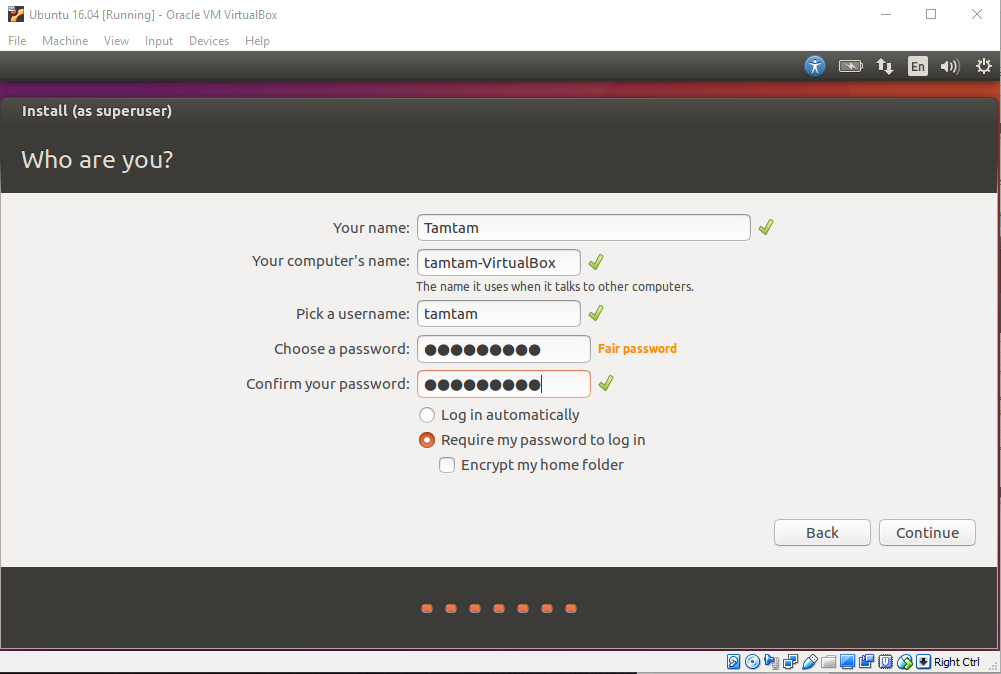
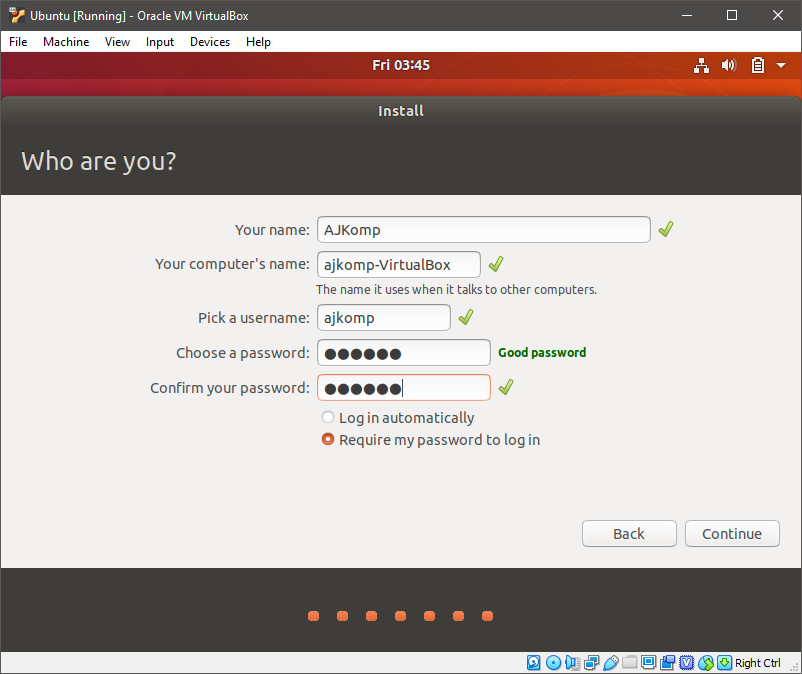
Update images

diff --git a/Instalasi/README.md b/Instalasi/README.md
@@ -8,13 +8,12 @@ Sub-materi
         - [Referensi](#referensi)
 
 ### 1. Persiapan
-- File ISO Ubuntu 18.04 LTS ([Download](http://releases.ubuntu.com/18.04/ubuntu-18.04.5-desktop-amd64.iso))
-- - Installer VirtualBox ([Download](https://download.virtualbox.org/virtualbox/5.2.22/VirtualBox-5.2.22-126460-Win.exe))
+- File ISO Ubuntu 18.04 LTS ([Download](http://releases.ubuntu.com/18.04.3/ubuntu-18.04.3-desktop-amd64.iso))
+- Installer VirtualBox ([Download](https://download.virtualbox.org/virtualbox/6.0.16/VirtualBox-6.0.16-135674-Win.exe))
 
 ### 2. Teknik Instalasi
 Jika hendak menggunakan lebih dari satu sistem operasi atau sering disebut OS(operating system) pada suatu komputer biasanya ada dua pilihan teknik instalasi, yaitu **dual-boot** atau **virtualisasi**.
-**Dual-boot** adalah teknik menginstall dua atau lebih OS pada satu komputer, dimana masing-masing OS berjalan secara mandiri. Pengguna hanya dapat menggunakan salah satu OS dalam satu watu, dengan cara memilih OS yang akan dipakai ketika menyalakan komputer.
-
+**Dual-boot** adalah teknik menginstall dua atau lebih OS pada satu komputer, dimana masing-masing OS berjalan secara mandiri. Pengguna hanya dapat menggunakan salah satu OS dalam satu watu, dengan cara memilih OS yang akan dipakai ketika menyalakan komputer.<br/>
 ![Tampilan GRUB Dual Boot Linux(Ubuntu) dan Windows](img/tampilan_grub_dual_boot.png "Tampilan GRUB Dual Boot Linux(Ubuntu) dan Windows")
 
 Sedangkan **Virtualisasi** adalah teknik menginstal dan menjalankan suatu OS di atas OS lain sebagai host, yaitu dengan menggunakan program berjenis mesin virtual (virtual machine), salah satu contohnya adalah VirtualBox. Dengan mesin virtual ini, pengguna dapat menjalankan suatu OS, sebagai contoh Linux, pada saat OS lain berjalan, sebagai contoh Windows, sehingga pengguna dapat menjalankan beberapa OS sekaligus dalam satu waktu.
@@ -31,61 +30,64 @@ Berikut ini perbandingan termasuk kelebihan dan kekurangan dari kedua teknik ins
 |Jika terjadi kerusakan pada salah satu OS, ada kemungkinan berpengaruh dengan OS satunya|Kerusakan pada OS yang di virtualisasikan tidak akan berpengaruh pada OS host|
 
 ### 3. Membuat Virtual Machine
-1. Install Oracle VM VirtualBox. Jika sudah ada, lanjut ke langkah 2.
-2. Buka aplikasi Oracle VM VirtualBox di Windows kamu.  
-![Tampilan awal Oracle VM VirtualBox](img/vb_home2.png "Tampilan awal Oracle VM VirtualBox")
 
-3. Klik **New** untuk membuat Virtual Machine baru. Isi **name** dengan nama 'Ubuntu 18.04', **type** pilih Linux, dan pilih **version** sesuai sepesifikasi PC atau Laptop kamu. Kemudian klik **Next** untuk proses selanjutnya.  
-![Membuat Virtual Machine baru Oracle VM VirtualBox](img/vb_buat_vm_baru2.png "Membuat Virtual Machine baru Oracle VM VirtualBox")
-
-4. Selanjutnya kamu disuruh untuk menentukan besaran memori, namun VirtualBox otomatis merekomendasikan besarnya memori. Jika sudah sesuai klik **Next**.  
-![Set memori VM baru Oracle VM VirtualBox](img/vb_set_memori2.png "Set memori VM baru Oracle VM VirtualBox")
-
-5. Selanjutnya kamu disuruh untuk menentukan ukuran harddisk, namun VirtualBox otomatis merekomendasikan ukuran harddisk. Jika sudah sesuai klik **Next**.  
+1. Install Oracle VM VirtualBox. Jika sudah ada, lanjut ke langkah 2. <br/>
+2. Buka aplikasi Oracle VM VirtualBox di Windows kamu.<br/>
+![Tampilan awal Oracle VM VirtualBox](img/vb_home.png "Tampilan awal Oracle VM VirtualBox")
+<br/>
+3. Klik **New** untuk membuat Virtual Machine baru. Isi **name** dengan nama 'Ubuntu 18.04', **type** pilih Linux, dan pilih **version** sesuai sepesifikasi PC atau Laptop kamu. Kemudian klik **Next** untuk proses selanjutnya.<br/>
+![Membuat Virtual Machine baru Oracle VM VirtualBox](img/vb_buat_vm_baru.png "Membuat Virtual Machine baru Oracle VM VirtualBox")
+<br/>
+4. Selanjutnya kamu disuruh untuk menentukan besaran memori, namun VirtualBox otomatis merekomendasikan besarnya memori. Jika sudah sesuai klik **Next**.<br/>
+![Set memori VM baru Oracle VM VirtualBox](img/vb_set_memori.png "Set memori VM baru Oracle VM VirtualBox")
+<br/>
+5. Selanjutnya kamu disuruh untuk menentukan ukuran harddisk, namun VirtualBox otomatis merekomendasikan ukuran harddisk. Jika sudah sesuai klik **Next**.<br/>
 ![Set ukuran harddisk VM baru Oracle VM VirtualBox](img/vb_set_disk_typee.png "Set ukuran harddisk VM baru Oracle VM VirtualBox")
-
-6. Klik **Next** saja pada proses ini untuk menuju proses selanjutnya.  
-![Set tipe harddisk VM baru Oracle VM VirtualBox](img/vb_set_disk_type22.png "Set tipe harddisk VM baru Oracle VM VirtualBox")
-
-7. Klik **Next** saja pada proses ini untuk menuju proses selanjutnya.  
+<br/>
+6. Klik **Next** saja pada proses ini untuk menuju proses selanjutnya.<br/>
+![Set tipe harddisk VM baru Oracle VM VirtualBox](img/vb_set_disk_type2.png "Set tipe harddisk VM baru Oracle VM VirtualBox")
+<br/>
+7. Klik **Next** saja pada proses ini untuk menuju proses selanjutnya.<br/>
 ![Set tipe harddisk VM baru Oracle VM VirtualBox(2)](img/vb_set_disk_type3.png "Set tipe harddisk VM baru Oracle VM VirtualBox(2)")
-
-8. Menentukan ukuran harddisk(direkomendasikan minimal 10GB). Klik **Create**.  
-![Set ukuran harddisk VM baru Oracle VM VirtualBox(3)](img/vb_set_disk_size2.png "Set ukuran harddisk VM baru Oracle VM VirtualBox(3)")
-
+<br/>
+8. Menentukan ukuran harddisk(direkomendasikan minimal 10GB). Klik **Create**.<br/>
+![Set ukuran harddisk VM baru Oracle VM VirtualBox(3)](img/vb_set_disk_size.png "Set ukuran harddisk VM baru Oracle VM VirtualBox(3)")
+<br/>
 9. Yee, virtual machine yang kamu buat sudah jadi! Namun, kamu masih harus menginstall Ubuntu 18.04 pada virtual machine yang telah kamu buat.
 
 ### 4. Instalasi Ubuntu 18.04
 Setelah berhasil membuat virtual machine, selanjutnya kita menginstall Ubuntu 18.04 pada virtual machine yang telah dibuat.
-1. Pilih virtual machine yang ingin di install, lalu klik **Setting** -> **Storage** -> **Controller: IDE** -> **Empty** -> **Choose Virtual Optical Disk File** untuk memilih file ISO Ubuntu yang akan di install. Kemudian klik **Start**(tanda panah hijau)  
-![Set file ISO Ubuntu VM baru Oracle VM VirtualBox](img/vb_set_iso2.png "Set file ISO Ubuntu VM baru Oracle VM VirtualBox")  
-![Set file ISO Ubuntu VM baru Oracle VM VirtualBox(2)](img/vb_get_iso_file2.png "Set file ISO Ubuntu VM baru Oracle VM VirtualBox(2)")  
-![Set file ISO Ubuntu VM baru Oracle VM VirtualBox(3)](img/vb_vm_jadi2.png "Set file ISO Ubuntu VM baru Oracle VM VirtualBox(3)")
 
-2. Yuhuu!! File ISO Ubuntu sudah berjalan. Selanjutnya tinggal ikuti langkah instalasinya. Klik **Install Ubuntu**.  
-![Instalasi Ubuntu(1)](img/vb_install_ubuntu12.png "Instalasi Ubuntu(1)")
+1. Pilih virtual machine yang ingin di install, lalu klik **Setting** -> **Storage** -> **Controller: IDE** -> **Empty** -> **Choose Virtual Optical Disk File** untuk memilih file ISO Ubuntu yang akan di install. Kemudian klik **Start**(tanda panah hijau)  <br/>
+![Set file ISO Ubuntu VM baru Oracle VM VirtualBox](img/vb_set_iso.png "Set file ISO Ubuntu VM baru Oracle VM VirtualBox")<br/>
+![Set file ISO Ubuntu VM baru Oracle VM VirtualBox(2)](img/vb_get_iso_file.png "Set file ISO Ubuntu VM baru Oracle VM VirtualBox(2)")<br/>
+![Set file ISO Ubuntu VM baru Oracle VM VirtualBox(3)](img/vb_vm_jadi.png "Set file ISO Ubuntu VM baru Oracle VM VirtualBox(3)")
+<br/>
 
-3. Tidak perlu mencentang apapun untuk menghemat waktu instalasi, kemudian klik **Continue**.  
-![Instalasi Ubuntu(2)](img/vb_install_ubuntu22.png "Instalasi Ubuntu(2)")
-
-4. Pilih **Erase disk and install Ubuntu**, lalu klik **Install Now**.  
-![Instalasi Ubuntu(3)](img/vb_install_ubuntu32.png "Instalasi Ubuntu(3)")
-
-5. Memilih zona waktu. Ketik **Jakarta**, lalu klik **Continue**.  
-![Instalasi Ubuntu(4)](img/vb_install_ubuntu42.png "Instalasi Ubuntu(4)")
-
-6. Memilih bahasa yang digunakan untuk penyesuaian keyboard. Ikuti saja defaultnya, langsung klik **Continue**.  
+2. Yuhuu!! File ISO Ubuntu sudah berjalan. Selanjutnya tinggal ikuti langkah instalasinya. Klik **Install Ubuntu**.<br/>
+![Instalasi Ubuntu(1)](img/vb_install_ubuntu1.png "Instalasi Ubuntu(1)")
+<br/>
+3. Memilih bahasa yang digunakan untuk penyesuaian keyboard. Ikuti saja defaultnya, langsung klik **Continue**.<br/>  
 ![Instalasi Ubuntu(5)](img/vb_install_ubuntu122.png "Instalasi Ubuntu(5)")
-
-7. Mengatur nama, nama komputer, username, dan password. Biasanya ketika mengetikkan nama kita pada form **Your name**, form **Your computer's name** dan form **Pick a username** otomatis tergenerate sesuai nama yang kita ketikkan.  
-![Instalasi Ubuntu(6)](img/vb_install_ubuntu62.png "Instalasi Ubuntu(6)")
-
-8. Tunggu hingga proses instalasi selesai.  
-![Instalasi Ubuntu(7)](img/vb_install_ubuntu72.png "Instalasi Ubuntu(7)")
-
-9. Instalasi sudah selesai! Klik **Restart Now** untuk me-*restart* Ubuntu untuk menyudahi tahapan instalasi.  
-![Instalasi Ubuntu(8)](img/vb_install_ubuntu82.png "Instalasi Ubuntu(8)")
-
+<br/>
+4. Tidak perlu mencentang apapun untuk menghemat waktu instalasi, kemudian klik **Continue**.<br/>
+![Instalasi Ubuntu(2)](img/vb_install_ubuntu2.png "Instalasi Ubuntu(2)")
+<br/>
+5. Pilih **Erase disk and install Ubuntu**, lalu klik **Install Now**.<br/>  
+![Instalasi Ubuntu(3)](img/vb_install_ubuntu3.png "Instalasi Ubuntu(3)")
+<br/>
+6. Memilih zona waktu. Ketik **Jakarta**, lalu klik **Continue**.<br/>  
+![Instalasi Ubuntu(4)](img/vb_install_ubuntu4.png "Instalasi Ubuntu(4)")
+<br/>
+7. Mengatur nama, nama komputer, username, dan password. Biasanya ketika mengetikkan nama kita pada form **Your name**, form **Your computer's name** dan form **Pick a username** otomatis tergenerate sesuai nama yang kita ketikkan.<br/>  
+![Instalasi Ubuntu(6)](img/vb_install_ubuntu6.png "Instalasi Ubuntu(6)")
+<br/>
+8. Tunggu hingga proses instalasi selesai.<br/>  
+![Instalasi Ubuntu(7)](img/vb_install_ubuntu7.png "Instalasi Ubuntu(7)")
+<br/>
+9. Instalasi sudah selesai! Klik **Restart Now** untuk me-*restart* Ubuntu untuk menyudahi tahapan instalasi.<br/>  
+![Instalasi Ubuntu(8)](img/vb_install_ubuntu8.png "Instalasi Ubuntu(8)")
+<br/>
 
 ##### Referensi
 - https://abrari.wordpress.com/2009/12/12/dual-booting-vs-virtualisasi/
